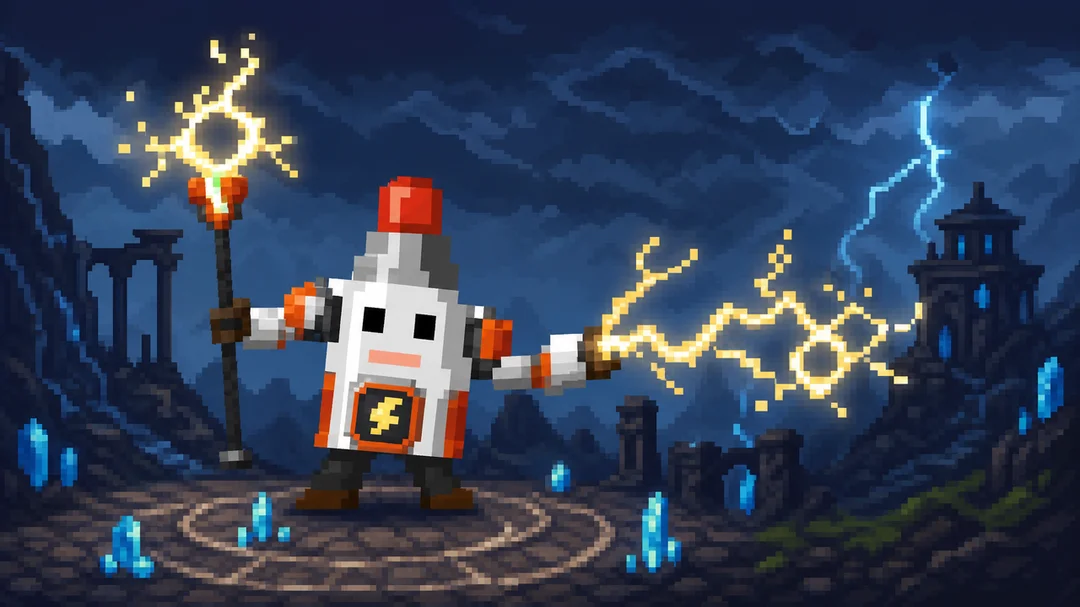
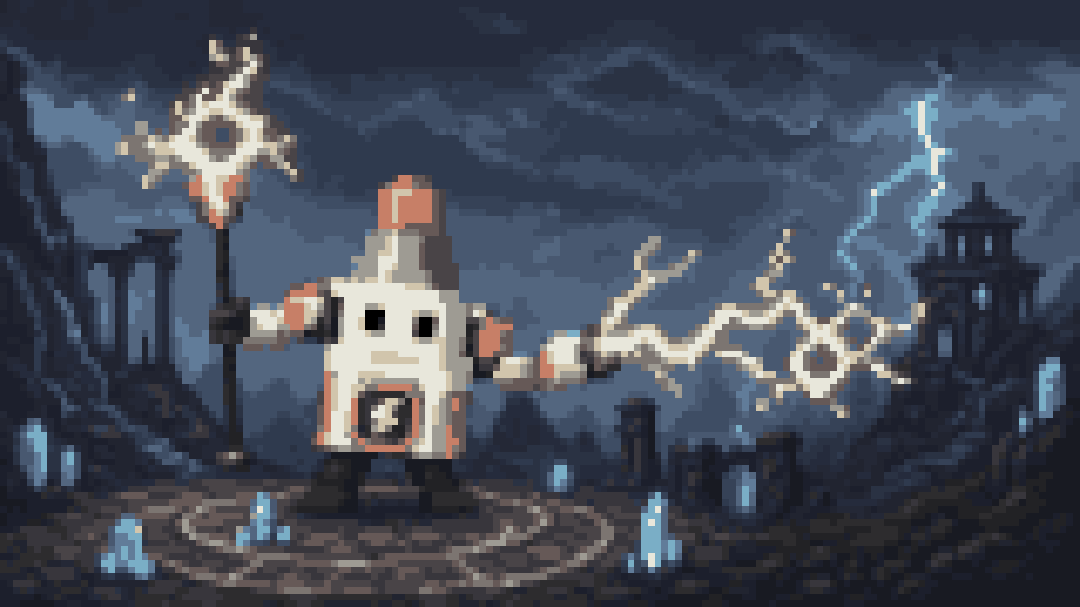
Convert 3 robot hero menu_bgs to pixel art, add music/SFX toggles to menu, fix ship sprite size

diff --git a/tools/pixel_art/convert_hero_menu_bgs.py b/tools/pixel_art/convert_hero_menu_bgs.py
@@ -1,0 +1,131 @@
+"""
+Convert the 3 robot hero menu_bg sprites (Arclight/Joule, Bulwark/Tremor,
+Warden/Diord) to pixel-art style matching Tobor's clean, muted look.
+
+The source images are 1080x607 detailed AI renders. We:
+  1. Downscale the full frame to a pixel grid (162x91 = 1:6.67 scale).
+  2. Desaturate to match the game's muted art pass.
+  3. Quantize to a limited palette (24 colors for hero detail).
+  4. Upscale back to 1080x607 with NEAREST (pixel-art look, same size).
+
+This preserves the exact same dimensions so the menu layout is unchanged.
+"""
+
+import os
+import colorsys
+from pathlib import Path
+from PIL import Image
+
+BASE = Path(__file__).resolve().parent.parent.parent
+UI_DIR = BASE / "assets" / "ui"
+
+# Target pixel grid: 1080/6.67 ≈ 162, 607/6.67 ≈ 91
+# Use a clean divisor for even pixels: 1080/7=154, 607/7=86.7
+# Let's use width-based: target 160 wide -> 1080/160 = 6.75 scale
+TARGET_W = 160
+N_COLORS = 24
+DESAT_FACTOR = 0.55  # Match house conversion
+
+HERO_FILES = [
+    "arclight_menu_bg.png",
+    "bulwark_menu_bg.png",
+    "warden_menu_bg.png",
+]
+
+
+def downscale_to_width(img: Image.Image, target_w: int) -> Image.Image:
+    """Downscale keeping aspect ratio, two-stage LANCZOS+BOX."""
+    img = img.convert("RGBA")
+    w, h = img.size
+    scale = target_w / w
+    new_w = target_w
+    new_h = max(1, round(h * scale))
+    mid_w = max(1, new_w * 2)
+    mid_h = max(1, new_h * 2)
+    small = img.resize((mid_w, mid_h), Image.LANCZOS)
+    small = small.resize((new_w, new_h), Image.BOX)
+    return small
+
+
+def desaturate(img: Image.Image, factor: float = DESAT_FACTOR) -> Image.Image:
+    """Reduce saturation of all pixels."""
+    img = img.convert("RGBA")
+    w, h = img.size
+    px = img.load()
+    for y in range(h):
+        for x in range(w):
+            r, g, b, a = px[x, y]
+            if a == 0:
+                continue
+            h_hsv, s, v = colorsys.rgb_to_hsv(r / 255.0, g / 255.0, b / 255.0)
+            s = s * factor
+            r2, g2, b2 = colorsys.hsv_to_rgb(h_hsv, s, v)
+            px[x, y] = (int(r2 * 255), int(g2 * 255), int(b2 * 255), a)
+    return img
+
+
+def convert_one(src_path: str) -> Image.Image:
+    """Full pipeline: downscale -> desaturate -> quantize -> upscale back."""
+    img = Image.open(src_path).convert("RGBA")
+    orig_w, orig_h = img.size
+    print(f"    [src] {orig_w}x{orig_h}")
+
+    # Downscale to pixel grid
+    small = downscale_to_width(img, TARGET_W)
+    print(f"    [downscale] -> {small.width}x{small.height}")
+
+    # Desaturate
+    small = desaturate(small, DESAT_FACTOR)
+
+    # Quantize
+    rgb = small.convert("RGB")
+    rgb = rgb.point(lambda v: (v >> 2) << 2)  # Snap to 4-step grid
+    quantized = rgb.quantize(colors=N_COLORS, method=Image.MEDIANCUT, kmeans=6)
+    result = quantized.convert("RGBA")
+    # Restore alpha
+    spx = small.load()
+    rpx = result.load()
+    for y in range(result.height):
+        for x in range(result.width):
+            if spx[x, y][3] < 128:
+                rpx[x, y] = (0, 0, 0, 0)
+
+    colors_used = len(result.getcolors(maxcolors=9999))
+    print(f"    [quantize] {colors_used} colors")
+
+    # Upscale back to original size with NEAREST
+    final = result.resize((orig_w, orig_h), Image.NEAREST)
+    print(f"    [upscale] -> {final.width}x{final.height}")
+    return final
+
+
+def main():
+    for name in HERO_FILES:
+        src_path = str(UI_DIR / name)
+        if not os.path.exists(src_path):
+            print(f"[SKIP] {name} not found")
+            continue
+
+        print(f"\n[CONVERT] {name}")
+        result = convert_one(src_path)
+
+        # Save
+        result.save(src_path)
+        print(f"    [save] {name} -> {result.width}x{result.height}")
+
+        # 4x preview for inspection
+        bbox = result.getbbox()
+        if bbox:
+            content = result.crop(bbox)
+        else:
+            content = result
+        preview = content.resize((content.width * 3, content.height * 3), Image.NEAREST)
+        preview_path = str(UI_DIR / name.replace(".png", "_preview.png"))
+        preview.save(preview_path)
+        print(f"    [preview] {preview.width}x{preview.height}")
+
+    print(f"\n[DONE] All hero menu_bg sprites converted to {TARGET_W}px pixel art.")
+
+
+if __name__ == "__main__":
+    main()
